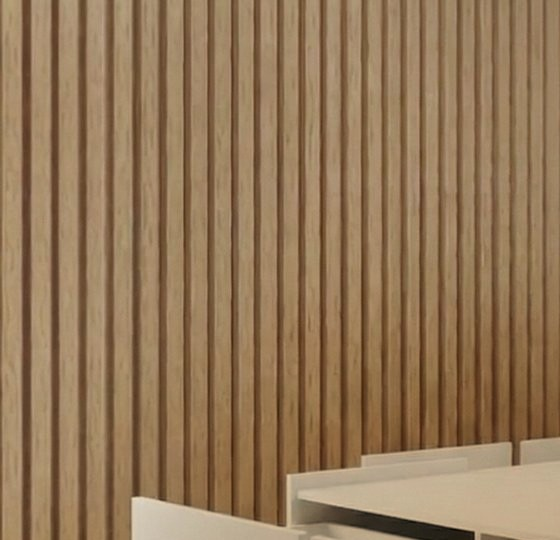
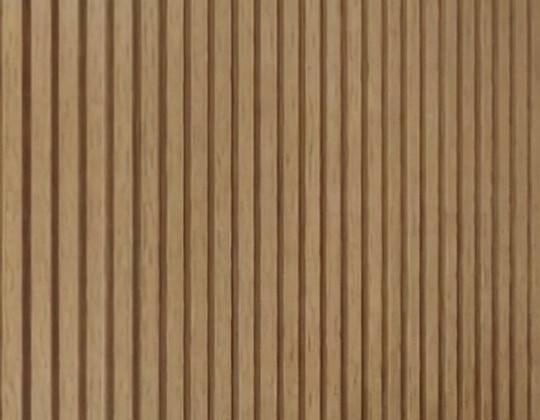
Prototipo 3D completo: pie con cajones, zapateros o estantes; bauleras que se abren; listones sin la forma rara

diff --git a/js/prototipo-3d.js b/js/prototipo-3d.js
@@ -41,8 +41,8 @@ sol.shadow.camera.near = 50; sol.shadow.camera.far = 1000;
 sol.shadow.bias = -0.0003; sol.shadow.normalBias = 0.5; sol.shadow.radius = 7;
 scene.add(sol);
 scene.add(new THREE.HemisphereLight(0xffffff, 0xb0a79b, 0.3));
-const foco = new THREE.SpotLight(0xffe2b8, 4800, 1200, 0.62, 1, 1.6);
-foco.position.set(-330, 330, 140); foco.target.position.set(-120, 150, -150); scene.add(foco, foco.target);
+const foco = new THREE.SpotLight(0xffe2b8, 4200, 1200, 0.5, 1, 1.6);
+foco.position.set(-330, 330, 140); foco.target.position.set(-150, 190, -150); scene.add(foco, foco.target);
 const relleno = new THREE.DirectionalLight(0xdfe8ff, 0.5); relleno.position.set(300, 120, 260); scene.add(relleno);
 
 const sinMobil = !window.matchMedia('(max-width: 900px)').matches;
@@ -133,12 +133,13 @@ function cargar(url, rx, ry, fn) {
 }
 cargar('./assets/prototipo/piso.jpg', 9, 13, t => { piso.material.map = t; piso.material.bumpMap = t; piso.material.bumpScale = 1.6; piso.material.color.set(0xe2dfd8); piso.material.needsUpdate = true; });
 cargar('./assets/prototipo/pared.jpg', 5, 1.9, t => { pared.material.map = t; pared.material.bumpMap = t; pared.material.bumpScale = 2.2; pared.material.color.set(0xeceae4); pared.material.needsUpdate = true; });
-cargar('./assets/prototipo/listones.jpg', 1.8, 3.2, t => { listones.material.map = t; listones.material.bumpMap = t; listones.material.bumpScale = 3; listones.material.color.set(0xf2dcc4); listones.material.needsUpdate = true; });
+cargar('./assets/prototipo/listones.jpg?v=2', 1.8, 3.6, t => { listones.material.map = t; listones.material.bumpMap = t; listones.material.bumpScale = 3; listones.material.color.set(0xf2dcc4); listones.material.needsUpdate = true; });
 
 // sombra de contacto suave bajo la cama (apoya la cama en el piso)
 const texContacto = lienzo(256, 256, (ctx, w, h) => { const g = ctx.createRadialGradient(w / 2, h / 2, 10, w / 2, h / 2, w / 2); g.addColorStop(0, 'rgba(30,24,18,.55)'); g.addColorStop(0.6, 'rgba(30,24,18,.22)'); g.addColorStop(1, 'rgba(30,24,18,0)'); ctx.fillStyle = g; ctx.fillRect(0, 0, w, h); });
 const contacto = new THREE.Mesh(new THREE.PlaneGeometry(W + 90, L + 90), new THREE.MeshBasicMaterial({ map: texContacto, transparent: true, depthWrite: false }));
 contacto.rotation.x = -Math.PI / 2; contacto.position.y = 0.15; scene.add(contacto);
+
 
 // ---------- la cama ----------
 const texMelamina = lienzo(512, 512, (ctx, w, h) => { ctx.fillStyle = '#9a9a9a'; ctx.fillRect(0, 0, w, h); for (let i = 0; i < 9000; i++) { const g = 120 + Math.random() * 120; ctx.fillStyle = 'rgb(' + g + ',' + g + ',' + g + ')'; ctx.fillRect(Math.random() * w, Math.random() * h, 1 + Math.random() * 2, 1 + Math.random() * 2); } });
@@ -146,9 +147,9 @@ texMelamina.colorSpace = THREE.NoColorSpace; texMelamina.wrapS = texMelamina.wra
 const matBlanco = new THREE.MeshPhysicalMaterial({ color: 0xf1efea, roughness: 0.5, roughnessMap: texMelamina, bumpMap: texMelamina, bumpScale: 0.12, metalness: 0, clearcoat: 0.22, clearcoatRoughness: 0.3 });
 const matInterior = new THREE.MeshStandardMaterial({ color: 0xe6e3dd, roughness: 0.7 });
 const matMetal = new THREE.MeshStandardMaterial({ color: 0x9ea3a8, roughness: 0.35, metalness: 0.85 });
-const matLinea = new THREE.LineBasicMaterial({ color: 0xb8b5ad });
+const matAgujero = new THREE.MeshBasicMaterial({ color: 0x8a867e });
 const cama = new THREE.Group(); scene.add(cama);
-let cajones = [];
+let cajones = [], tapas = [];
 
 function caja(w, h, d, mat, x, y, z, radio) {
   const g = radio ? new RoundedBoxGeometry(w, h, d, 4, radio) : new THREE.BoxGeometry(w, h, d);
@@ -170,46 +171,63 @@ function hacerCajon(ancho, alto, prof) {
 }
 
 function ponerCajon(g, tipo, base, dir) {
-  g.userData.tipo = tipo; g.userData.base = base.clone(); g.userData.dir = dir.clone(); g.userData.abierto = tipo === 'lat' ? 0 : 0; g.userData.valor = 0;
+  g.userData.tipo = tipo; g.userData.base = base.clone(); g.userData.dir = dir.clone(); g.userData.abierto = 0; g.userData.valor = 0;
   g.position.copy(base);
   cama.add(g); cajones.push(g);
 }
 
 function reparto(total, anchos) { const hueco = (total - anchos.reduce((a, b) => a + b, 0)) / (anchos.length + 1); let x = hueco, out = []; anchos.forEach(w => { out.push({ c: x + w / 2 - total / 2, w }); x += w + hueco; }); return out; }
 
-// estados: lat.izq / lat.der = lista de lugares ('G' = 1 cajón grande, 'N' = 2 cajones normales apilados); pie = ['G'|'N', 'G'|'N']
-const estado = { izq: ['G', 'G'], der: ['G', 'G'], pie: ['G', 'G'] };
+// Tapa superior con huecos (donde van las tapas de las bauleras), armada en tramos
+function losaConHuecos(huecos) {
+  const g = new THREE.Group(), xs = [-W / 2, W / 2], zs = [-L / 2, L / 2];
+  huecos.forEach(h => { xs.push(h.x0, h.x1); zs.push(h.z0, h.z1); });
+  const ux = [...new Set(xs)].sort((a, b) => a - b), uz = [...new Set(zs)].sort((a, b) => a - b);
+  const dentro = (x, z) => huecos.some(h => x > h.x0 && x < h.x1 && z > h.z0 && z < h.z1);
+  for (let j = 0; j < uz.length - 1; j++) {
+    const za = uz[j], zb = uz[j + 1], zm = (za + zb) / 2; let ini = null;
+    for (let i = 0; i < ux.length - 1; i++) {
+      const xa = ux[i], xb = ux[i + 1], libre = !dentro((xa + xb) / 2, zm);
+      if (libre && ini === null) ini = xa;
+      if ((!libre || i === ux.length - 2) && ini !== null) {
+        const fin = libre ? xb : xa;
+        if (fin - ini > 0.05) g.add(caja(fin - ini + 0.02, 1.7, zb - za + 0.02, matBlanco, (ini + fin) / 2, H - 0.85, zm));
+        ini = null;
+      }
+    }
+  }
+  return g;
+}
+
+// estado: lugares de los costados ('G' = 1 cajón grande, 'N' = 2 normales apilados) y pie (cajones por lado, zapateros o estantes)
+const estado = { izq: ['G', 'G'], der: ['G', 'G'], pie: { tipo: 'cajones', lados: ['G', 'G'] } };
 const recordar = new Map();
 
 function armar() {
   cajones.forEach(c => recordar.set(c.userData.clave, c.userData.valor));
+  tapas.forEach(t => recordar.set(t.userData.clave, t.userData.abierto));
   while (cama.children.length) cama.remove(cama.children[0]);
-  cajones = [];
+  cajones = []; tapas = [];
   const cuerpo = new THREE.Group(); cama.add(cuerpo);
-  // estructura
-  cuerpo.add(caja(W, 1.7, L, matBlanco, 0, H - 0.85, 0, 0.3));         // tapa superior
-  cuerpo.add(caja(W - 0.4, 1.7, L - 0.4, matInterior, 0, 0.85, 0));    // base
-  cuerpo.add(caja(W, H, 1.7, matBlanco, 0, H / 2, -L / 2 + 0.85, 0.3)); // cabecera
-  [-1, 1].forEach(s => cuerpo.add(caja(1.5, H - 3.4, L - PROF - 2, matBlanco, s * (W / 2 - PROF - 0.8), H / 2, -PROF / 2 - 1)));
-  cuerpo.add(caja(W - 0.6, H - 3.4, 1.5, matBlanco, 0, H / 2, L / 2 - PROF - 0.8));
-  // cierres del pie: paneles de las esquinas y divisiones entre los cajones del pie, para que la cama se vea armada completa
-  [-1, 1].forEach(sg => cuerpo.add(caja(1.5, H - 3.4, PROF, matBlanco, sg * (W / 2 - 0.75), H / 2, L / 2 - PROF / 2, 0.2)));
-  const posPie = reparto(W, estado.pie.map(t => t === 'G' ? 65 : 48));
-  for (let i = 0; i < posPie.length - 1; i++) { const xm = (posPie[i].c + posPie[i].w / 2 + posPie[i + 1].c - posPie[i + 1].w / 2) / 2; cuerpo.add(caja(1.5, H - 3.4, PROF, matBlanco, xm, H / 2, L / 2 - PROF / 2)); }
-  // costados de la cabecera cerrados
-  [-1, 1].forEach(sg => cuerpo.add(caja(1.5, H - 3.4, 41, matBlanco, sg * (W / 2 - 0.75), H / 2, -L / 2 + 20.5, 0.2)));
+  const tipoPie = estado.pie.tipo, PP = tipoPie === 'estantes' ? 45 : PROF, paredH = H - 3.4;
+
+  // huecos de las tapas de las bauleras: 2 en la cabecera y 1 central
+  const hCab = (x) => ({ x0: x - 33.7, x1: x + 33.7, z0: -94.3, z1: -59.1 });
+  const hCen = { x0: -24.5, x1: 24.5, z0: -54.5, z1: 47.5 };
+  cuerpo.add(losaConHuecos([hCab(-W / 4), hCab(W / 4), hCen]));
+  cuerpo.add(caja(W - 0.4, 1.7, L - 0.4, matInterior, 0, 0.85, 0));            // base
+  cuerpo.add(caja(W, H, 1.7, matBlanco, 0, H / 2, -L / 2 + 0.85, 0.3));         // cabecera
+  // compartimento de la cabecera (bauleras chicas)
+  cuerpo.add(caja(W - 0.6, paredH, 1.5, matBlanco, 0, H / 2, -57.8));
+  cuerpo.add(caja(1.5, paredH, 37, matBlanco, 0, H / 2, -76.3));
+  [-1, 1].forEach(sg => cuerpo.add(caja(1.5, paredH, 41, matBlanco, sg * (W / 2 - 0.75), H / 2, -L / 2 + 20.5, 0.2)));
+  // espina central (paredes de la baulera central)
+  const zE0 = -57.05, zE1 = L / 2 - PP - 1.55, cE = (zE0 + zE1) / 2;
+  [-1, 1].forEach(s => cuerpo.add(caja(1.5, paredH, zE1 - zE0, matBlanco, s * (W / 2 - PROF - 0.8), H / 2, cE)));
+  cuerpo.add(caja(W - 0.6, paredH, 1.5, matBlanco, 0, H / 2, L / 2 - PP - 0.8));  // fondo del pie
   // divisiones entre cajones laterales
-  const zIni = -L / 2 + 41, zFin = L / 2 - PROF - 3, largo = (zFin - zIni) / 2;
-  [-1, 1].forEach(s => { for (let i = 0; i <= 2; i++) cuerpo.add(caja(PROF, H - 3.4, 1.4, matBlanco, s * (W / 2 - PROF / 2), H / 2, zIni + largo * i)); });
-  // líneas de las tapas de las bauleras (cabecera y centro)
-  const z0 = -L / 2;
-  const marcos = [[-W / 4 + 0, z0 + 19, 68, 38], [W / 4 + 0, z0 + 19, 68, 38], [0, z0 + 41 + 52, 50, 102]];
-  marcos.forEach(([x, z, w, d]) => {
-    const pts = [[-w / 2, -d / 2], [w / 2, -d / 2], [w / 2, d / 2], [-w / 2, d / 2], [-w / 2, -d / 2]].map(p => new THREE.Vector3(x + p[0], H + 0.06, z + p[1]));
-    cuerpo.add(new THREE.Line(new THREE.BufferGeometry().setFromPoints(pts), matLinea));
-  });
-  // agujeritos de las tapas de las bauleras
-  [[-W / 4 - 22, z0 + 19], [W / 4 + 22, z0 + 19], [0, z0 + 41 + 52 - 40]].forEach(([x, z]) => { const h = new THREE.Mesh(new THREE.CircleGeometry(1.4, 20), new THREE.MeshBasicMaterial({ color: 0x8a867e })); h.rotation.x = -Math.PI / 2; h.position.set(x, H + 0.05, z); cuerpo.add(h); });
+  const zIni = -57, zFin = L / 2 - PP - 3, largo = (zFin - zIni) / 2;
+  [-1, 1].forEach(s => { for (let i = 0; i <= 2; i++) cuerpo.add(caja(PROF, paredH, 1.4, matBlanco, s * (W / 2 - PROF / 2), H / 2, zIni + largo * i)); });
   // cajones de los costados
   [['izq', -1], ['der', 1]].forEach(([lado, s]) => {
     estado[lado].forEach((tipo, i) => {
@@ -223,97 +241,150 @@ function armar() {
       });
     });
   });
-  // cajones del pie
-  const anchos = estado.pie.map(t => t === 'G' ? 65 : 48), pos = reparto(W, anchos);
-  estado.pie.forEach((tipo, i) => {
-    const niveles = tipo === 'G' ? [[35, 21]] : [[16.8, 11.9], [16.8, 30.1]];
-    niveles.forEach(([alto, y], n) => {
-      const c = hacerCajon(anchos[i] - 1.2, alto, PROF);
-      c.userData.clave = 'pie' + i + '-' + n;
-      ponerCajon(c, 'pie', new THREE.Vector3(pos[i].c, y, L / 2), new THREE.Vector3(0, 0, 1));
+  // pie de la cama
+  if (tipoPie === 'estantes') {
+    [-1, 1].forEach(sg => cuerpo.add(caja(1.5, paredH, PP, matBlanco, sg * (W / 2 - 0.75), H / 2, L / 2 - PP / 2, 0.2)));
+    cuerpo.add(caja(1.5, paredH, PP, matBlanco, 0, H / 2, L / 2 - PP / 2));
+    [-1, 1].forEach(sg => cuerpo.add(caja((W - 4.5) / 2, 1.5, PP - 1.6, matBlanco, sg * W / 4, H / 2, L / 2 - PP / 2 + 0.8)));
+  } else {
+    const anchos = tipoPie === 'zapateros' ? [65, 65] : estado.pie.lados.map(t => t === 'G' ? 65 : 48), pos = reparto(W, anchos);
+    [-1, 1].forEach(sg => cuerpo.add(caja(1.5, paredH, PP, matBlanco, sg * (W / 2 - 0.75), H / 2, L / 2 - PP / 2, 0.2)));
+    for (let i = 0; i < pos.length - 1; i++) { const xm = (pos[i].c + pos[i].w / 2 + pos[i + 1].c - pos[i + 1].w / 2) / 2; cuerpo.add(caja(1.5, paredH, PP, matBlanco, xm, H / 2, L / 2 - PP / 2)); }
+    anchos.forEach((ancho, i) => {
+      const niveles = tipoPie === 'zapateros' ? [[35, 21]] : (estado.pie.lados[i] === 'G' ? [[35, 21]] : [[16.8, 11.9], [16.8, 30.1]]);
+      niveles.forEach(([alto, y], n) => {
+        const c = hacerCajon(ancho - 1.2, alto, PROF);
+        c.userData.clave = (tipoPie === 'zapateros' ? 'zap' : 'pie') + i + '-' + n;
+        ponerCajon(c, 'pie', new THREE.Vector3(pos[i].c, y, L / 2), new THREE.Vector3(0, 0, 1));
+      });
     });
+  }
+  // tapas de las bauleras: giran sobre una bisagra y dejan ver el hueco (las de la cabecera por el lado de la pared; la central por un costado)
+  [[hCab(-W / 4), 'cab0', 'x', -1], [hCab(W / 4), 'cab1', 'x', -1], [hCen, 'cen', 'z', 1]].forEach(([h, clave, eje, sentido]) => {
+    const w = h.x1 - h.x0 - 0.6, d = h.z1 - h.z0 - 0.6, pivote = new THREE.Group();
+    let tapa, agujero = new THREE.Mesh(new THREE.CircleGeometry(1.4, 20), matAgujero);
+    agujero.rotation.x = -Math.PI / 2;
+    if (eje === 'x') {
+      pivote.position.set((h.x0 + h.x1) / 2, H, h.z0 + 0.3);
+      tapa = caja(w, 1.6, d, matBlanco, 0, -0.85, d / 2, 0.25);
+      agujero.position.set(w / 2 - 6, 0.82, d / 2 - 7);
+    } else {
+      pivote.position.set(h.x1 - 0.3, H, (h.z0 + h.z1) / 2);
+      tapa = caja(w, 1.6, d, matBlanco, -w / 2, -0.85, 0, 0.25);
+      agujero.position.set(-w / 2 + 7, 0.82, 0);
+    }
+    tapa.add(agujero); pivote.add(tapa);
+    pivote.userData = { clave, eje, sentido, abierto: 0, valor: 0, malla: tapa }; tapa.userData.tapa = pivote;
+    cuerpo.add(pivote); tapas.push(pivote);
   });
   cajones.forEach(c => { const v = recordar.get(c.userData.clave); if (v) { c.userData.valor = v; c.userData.abierto = v > 20 ? 1 : 0; } });
+  tapas.forEach(t => { const v = recordar.get(t.userData.clave); if (v) { t.userData.abierto = 1; t.userData.valor = 1; } });
   actualizarPos(); dirty = true;
 }
 
-function actualizarPos() { cajones.forEach(c => { c.position.copy(c.userData.base).addScaledVector(c.userData.dir, c.userData.valor); }); }
+function actualizarPos() {
+  cajones.forEach(c => { c.position.copy(c.userData.base).addScaledVector(c.userData.dir, c.userData.valor); });
+  tapas.forEach(t => { const a = THREE.MathUtils.degToRad(105) * t.userData.valor; if (t.userData.eje === 'x') t.rotation.x = t.userData.sentido * a; else t.rotation.z = -a; });
+}
 
 // ---------- interacción ----------
 let dirty = true;
 const rayo = new THREE.Raycaster(), p2 = new THREE.Vector2();
+const tocables = () => cajones.map(c => c.userData.frente).concat(tapas.map(t => t.userData.malla));
+function apuntar(e) { const r = renderer.domElement.getBoundingClientRect(); p2.set(((e.clientX - r.left) / r.width) * 2 - 1, -((e.clientY - r.top) / r.height) * 2 + 1); rayo.setFromCamera(p2, camera); return rayo.intersectObjects(tocables(), false)[0]; }
 let abajo = null;
 renderer.domElement.addEventListener('pointerdown', e => { abajo = { x: e.clientX, y: e.clientY }; });
 renderer.domElement.addEventListener('pointerup', e => {
   if (!abajo || Math.hypot(e.clientX - abajo.x, e.clientY - abajo.y) > 6) { abajo = null; return; }
   abajo = null;
-  const r = renderer.domElement.getBoundingClientRect();
-  p2.set(((e.clientX - r.left) / r.width) * 2 - 1, -((e.clientY - r.top) / r.height) * 2 + 1);
-  rayo.setFromCamera(p2, camera);
-  const frentes = cajones.map(c => c.userData.frente);
-  const hit = rayo.intersectObjects(frentes, false)[0];
-  if (hit) { const c = hit.object.userData.cajon; c.userData.abierto = c.userData.abierto ? 0 : 1; dirty = true; document.getElementById('ayuda').style.opacity = 0; }
+  const hit = apuntar(e);
+  if (!hit) return;
+  document.getElementById('ayuda').style.opacity = 0;
+  if (hit.object.userData.cajon) { const c = hit.object.userData.cajon; c.userData.abierto = c.userData.abierto ? 0 : 1; }
+  else { const t = hit.object.userData.tapa; t.userData.abierto = t.userData.abierto ? 0 : 1; vistaBauleras(); }
+  etiquetas(); dirty = true;
 });
-// el cursor cambia a "abrir" al pasar sobre un cajón
+// el cursor cambia a "abrir" al pasar sobre un cajón o una tapa
 let ultimoMov = 0;
 renderer.domElement.addEventListener('pointermove', e => {
   if (e.pointerType !== 'mouse' || e.buttons || performance.now() - ultimoMov < 60) return;
   ultimoMov = performance.now();
-  const r = renderer.domElement.getBoundingClientRect();
-  p2.set(((e.clientX - r.left) / r.width) * 2 - 1, -((e.clientY - r.top) / r.height) * 2 + 1);
-  rayo.setFromCamera(p2, camera);
-  stage.classList.toggle('sobre-cajon', rayo.intersectObjects(cajones.map(c => c.userData.frente), false).length > 0);
+  stage.classList.toggle('sobre-cajon', !!apuntar(e));
 });
 controls.addEventListener('change', () => { dirty = true; });
-controls.addEventListener('start', () => { tocoCamara = true; document.getElementById('ayuda').style.opacity = 0; });
+controls.addEventListener('start', () => { tocoCamara = true; camTween = null; document.getElementById('ayuda').style.opacity = 0; });
 
 // Encuadre automático: la cama entera, con los cajones abiertos, entra en cualquier pantalla
-let tocoCamara = false;
+let tocoCamara = false, camTween = null, distInicial = 600;
+const dirInicial = new THREE.Vector3(238, 88, 367).normalize();
 function encuadrar() {
-  if (tocoCamara) return;
   const R = 128, vf = THREE.MathUtils.degToRad(camera.fov), hf = 2 * Math.atan(Math.tan(vf / 2) * camera.aspect);
-  const dist = R / Math.sin(Math.min(vf, hf) / 2);
-  const dir = new THREE.Vector3(238, 88, 367).normalize();
-  camera.position.copy(controls.target).addScaledVector(dir, dist);
-  controls.minDistance = dist * 0.55; controls.maxDistance = dist * 1.7;
+  distInicial = R / Math.sin(Math.min(vf, hf) / 2);
+  controls.minDistance = distInicial * 0.55; controls.maxDistance = distInicial * 1.7;
+  if (tocoCamara) return;
+  camera.position.copy(controls.target).addScaledVector(dirInicial, distInicial);
   controls.update();
+}
+// Al abrir una baulera la cámara sube para mirar adentro; al cerrar todas vuelve a la vista inicial
+function moverCamara(phi) {
+  tocoCamara = true;
+  const sph = new THREE.Spherical().setFromVector3(camera.position.clone().sub(controls.target));
+  camTween = { t: 0, de: sph.clone(), a: new THREE.Spherical(Math.min(sph.radius, distInicial * 1.05), phi, sph.theta) };
+}
+function vistaBauleras() {
+  if (tapas.some(t => t.userData.abierto)) moverCamara(0.62);
+  else moverCamara(new THREE.Spherical().setFromVector3(dirInicial).phi);
 }
 function tamano() {
   const w = stage.clientWidth, h = stage.clientHeight; renderer.setSize(w, h); composer.setSize(w, h); camera.aspect = w / h; camera.updateProjectionMatrix(); encuadrar(); dirty = true;
 }
 new ResizeObserver(tamano).observe(stage); tamano();
 
+let ultimo = performance.now();
 function bucle() {
   requestAnimationFrame(bucle);
+  const ahora = performance.now(), dt = Math.min(0.05, (ahora - ultimo) / 1000); ultimo = ahora;
   let mueve = controls.update();
+  if (camTween) {
+    camTween.t = Math.min(1, camTween.t + dt / 0.9);
+    const k = camTween.t < 0.5 ? 2 * camTween.t * camTween.t : 1 - Math.pow(-2 * camTween.t + 2, 2) / 2, s = camTween.de, a = camTween.a;
+    camera.position.setFromSpherical(new THREE.Spherical(s.radius + (a.radius - s.radius) * k, s.phi + (a.phi - s.phi) * k, s.theta)).add(controls.target);
+    camera.lookAt(controls.target); controls.update(); mueve = true;
+    if (camTween.t >= 1) camTween = null;
+  }
   cajones.forEach(c => {
     const meta = c.userData.abierto ? 40 : 0, d = meta - c.userData.valor;
     if (Math.abs(d) > 0.05) { c.userData.valor += d * 0.14; mueve = true; } else if (c.userData.valor !== meta) { c.userData.valor = meta; mueve = true; }
+  });
+  tapas.forEach(t => {
+    const meta = t.userData.abierto ? 1 : 0, d = meta - t.userData.valor;
+    if (Math.abs(d) > 0.004) { t.userData.valor += d * 0.12; mueve = true; } else if (t.userData.valor !== meta) { t.userData.valor = meta; mueve = true; }
   });
   if (mueve) { actualizarPos(); dirty = true; }
   if (dirty) { composer.render(); dirty = false; }
 }
 
-// ---------- botones: 1 cajón grande o 2 normales ----------
+// ---------- paneles ----------
+function etiquetas() {
+  document.getElementById('abrir').textContent = cajones.some(c => !c.userData.abierto) ? 'Abrir todos los cajones' : 'Cerrar todos los cajones';
+  document.getElementById('bau').textContent = tapas.some(t => !t.userData.abierto) ? 'Abrir las bauleras' : 'Cerrar las bauleras';
+}
+function fila(nombre, hijos) { const f = document.createElement('div'); f.className = 'fila'; const t = document.createElement('span'); t.textContent = nombre; f.appendChild(t); hijos.forEach(h => f.appendChild(h)); return f; }
+function opciones(lista, actual, alElegir) {
+  const g = document.createElement('div'); g.className = 'par';
+  lista.forEach(([val, txt]) => { const b = document.createElement('button'); b.type = 'button'; b.textContent = txt; b.className = actual === val ? 'on' : ''; b.addEventListener('click', () => alElegir(val)); g.appendChild(b); });
+  return g;
+}
 function paneles() {
   const cont = document.getElementById('lugares'); cont.innerHTML = '';
-  [['izq', 'Lado izquierdo'], ['der', 'Lado derecho'], ['pie', 'Pie de la cama']].forEach(([k, nombre]) => {
-    const fila = document.createElement('div'); fila.className = 'fila';
-    const t = document.createElement('span'); t.textContent = nombre; fila.appendChild(t);
-    estado[k].forEach((tipo, i) => {
-      const grupo = document.createElement('div'); grupo.className = 'par';
-      [['G', '1 grande'], ['N', '2 normales']].forEach(([val, txt]) => {
-        const b = document.createElement('button'); b.type = 'button'; b.textContent = txt; b.className = tipo === val ? 'on' : '';
-        b.addEventListener('click', () => { estado[k][i] = val; armar(); paneles(); });
-        grupo.appendChild(b);
-      });
-      fila.appendChild(grupo);
-    });
-    cont.appendChild(fila);
-  });
+  const GN = [['G', '1 grande'], ['N', '2 normales']];
+  [['izq', 'Costado izquierdo'], ['der', 'Costado derecho']].forEach(([k, nombre]) => cont.appendChild(fila(nombre, estado[k].map((tipo, i) => opciones(GN, tipo, v => { estado[k][i] = v; armar(); paneles(); etiquetas(); })))));
+  cont.appendChild(fila('Pie de la cama', [opciones([['cajones', 'Cajones'], ['zapateros', 'Zapateros'], ['estantes', 'Estantes']], estado.pie.tipo, v => { estado.pie.tipo = v; armar(); paneles(); etiquetas(); })]));
+  if (estado.pie.tipo === 'cajones') cont.appendChild(fila('Cajones del pie', estado.pie.lados.map((tipo, i) => opciones(GN, tipo, v => { estado.pie.lados[i] = v; armar(); paneles(); etiquetas(); }))));
 }
-document.getElementById('abrir').addEventListener('click', () => { const abrir = cajones.some(c => !c.userData.abierto); cajones.forEach(c => { c.userData.abierto = abrir ? 1 : 0; }); document.getElementById('abrir').textContent = abrir ? 'Cerrar todos los cajones' : 'Abrir todos los cajones'; dirty = true; });
+document.getElementById('abrir').addEventListener('click', () => { const abrir = cajones.some(c => !c.userData.abierto); cajones.forEach(c => { c.userData.abierto = abrir ? 1 : 0; }); etiquetas(); dirty = true; });
+document.getElementById('bau').addEventListener('click', () => { const abrir = tapas.some(t => !t.userData.abierto); tapas.forEach(t => { t.userData.abierto = abrir ? 1 : 0; }); vistaBauleras(); etiquetas(); dirty = true; });
 
-armar(); paneles(); bucle();
-setTimeout(() => { cajones.forEach(c => { c.userData.abierto = 1; }); document.getElementById('abrir').textContent = 'Cerrar todos los cajones'; dirty = true; }, 700);
-window.__proto = { estado, armar, cajones: () => cajones.length, camara: camera, renderer };
+armar(); paneles(); etiquetas(); bucle();
+setTimeout(() => { cajones.forEach(c => { c.userData.abierto = 1; }); etiquetas(); dirty = true; }, 700);
+window.__proto = { estado, armar, cajones: () => cajones.length, tapas: () => tapas.length, camara: camera, renderer, moverCamara, tween: () => camTween, controls };

diff --git a/prototipo-3d.html b/prototipo-3d.html
@@ -34,7 +34,8 @@ p.lead{margin:0 0 16px;color:var(--madera);font-weight:600;max-width:70ch}
 .par button{flex:1;padding:10px 8px;border:1.5px solid var(--line);border-radius:12px;background:#fff;font:700 13.5px 'Manrope',sans-serif;color:var(--espresso);cursor:pointer;transition:border-color .2s,background .2s}
 .par button:hover{border-color:var(--gold)}
 .par button.on{border-color:var(--gold);background:#fbf4dc}
-#abrir{padding:12px 16px;border:0;border-radius:999px;background:var(--nogal);color:#fff;font:800 14px 'Manrope',sans-serif;cursor:pointer}
+#abrir,#bau{padding:12px 16px;border:0;border-radius:999px;background:var(--nogal);color:#fff;font:800 14px 'Manrope',sans-serif;cursor:pointer}
+#bau{background:#fff;color:var(--nogal);border:1.5px solid var(--nogal)}
 .nota{font-size:12.5px!important;opacity:.85}
 @media (max-width:900px){.wrap{grid-template-columns:minmax(0,1fr)}#stage{height:clamp(320px,56vh,520px)}}
 </style>
@@ -46,18 +47,19 @@ p.lead{margin:0 0 16px;color:var(--madera);font-weight:600;max-width:70ch}
 <header><b><i>Pro</i>Muebles</b><span>Prototipo interno · no está enlazado en la web</span></header>
 <main>
   <h1>Cama 6 Vip en 3D</h1>
-  <p class="lead">Girala con el mouse o el dedo, acercala con la rueda o pellizcando, y tocá un cajón para abrirlo. Cambiá cada lugar entre 1 cajón grande y 2 normales.</p>
+  <p class="lead">Girala con el mouse o el dedo, acercala con la rueda o pellizcando, y tocá un cajón o una tapa para abrirlo. Cambiá los costados, el pie (cajones, zapateros o estantes) y mirá las bauleras por dentro.</p>
   <div class="wrap">
-    <div id="stage"><div id="ayuda">↔ Arrastrá para girar · tocá un cajón para abrirlo</div></div>
+    <div id="stage"><div id="ayuda">↔ Arrastrá para girar · tocá un cajón o una tapa para abrirlo</div></div>
     <aside class="panel">
       <h2>Armá los cajones</h2>
-      <p>Elegí en cada lugar si va 1 cajón grande o 2 cajones normales apilados. La cama se actualiza al instante.</p>
+      <p>Elegí en cada lugar si va 1 cajón grande o 2 normales apilados, y qué lleva el pie de la cama. La cama se actualiza al instante.</p>
       <div id="lugares"></div>
       <button type="button" id="abrir">Abrir todos los cajones</button>
+      <button type="button" id="bau" class="sec">Abrir las bauleras</button>
       <p class="nota">Esto es una prueba del estilo visual con una sola cama (6 Vip). Las medidas de los cajones y la estructura salen de los datos reales del modelo.</p>
     </aside>
   </div>
 </main>
-<script type="module" src="./js/prototipo-3d.js?v=20261029"></script>
+<script type="module" src="./js/prototipo-3d.js?v=20261031"></script>
 </body>
 </html>
